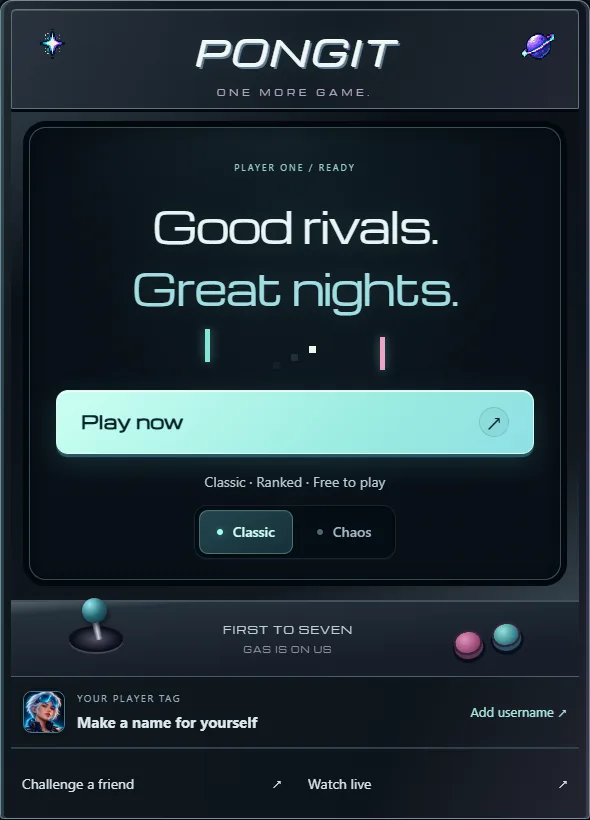
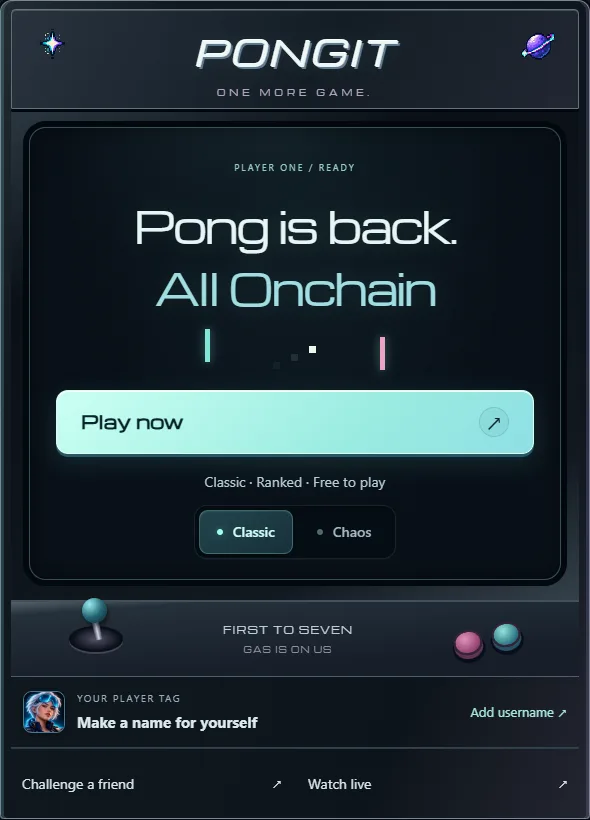
Adopt Pong is back. All Onchain across the home and share preview

Changed region(s): [[0.2136, 0.2439, 0.7627, 0.3963]]

diff --git a/web/components/HomeCabinet.tsx b/web/components/HomeCabinet.tsx
@@ -7,7 +7,7 @@ export function HomeCabinet({mode,setMode,busy,active,play,challenge,watch,profi
    <div className="cabinet-marquee"><PixelOrnament kind="star" className="marquee-left"/><span>PONGIT</span><PixelOrnament kind="planet" className="marquee-right"/><small>ONE MORE GAME.</small></div>
    <div className="cabinet-bezel"><div className="cabinet-screen">
      <span className="cabinet-edition">PLAYER ONE / READY</span>
-     <h1>Good rivals.<br/><em>Great nights.</em></h1>
+     <h1>Pong is back.<br/><em>All Onchain</em></h1>
      <div className="cabinet-pong" aria-hidden="true"><i/><b/><i/></div>
      <button className="primary play-now" disabled={busy} onClick={play}>{busy?"Please wait…":active?"Resume match":"Play now"}<span aria-hidden="true">↗</span></button>
      <p className="play-caption">{mode===1?"Chaos":"Classic"} · Ranked · Free to play</p>

diff --git a/web/lib/social-metadata.ts b/web/lib/social-metadata.ts
@@ -2,11 +2,11 @@ import type { Metadata } from "next";
 
 export const siteOrigin = "https://pongit.xyz";
 const image = {
-  url: `${siteOrigin}/social/pongit-neon-cabinet-v1.jpg`,
+  url: `${siteOrigin}/social/pongit-neon-cabinet-v2.jpg`,
   width: 1200,
   height: 630,
   type: "image/jpeg",
-  alt: "PONGIT neon arcade cabinet with the orbital logo, a Pong match and 16-bit ornaments. Good rivals. Great nights.",
+  alt: "PONGIT neon arcade cabinet with the orbital logo, a Pong match and 16-bit ornaments. Pong is back. All Onchain",
 };
 
 export function socialMetadata(

diff --git a/web/app/layout.tsx b/web/app/layout.tsx
@@ -14,7 +14,7 @@ export const metadata: Metadata = {
   description:
     "A fully onchain Pong arena on Monad testnet. Play, watch, and replay verifiable matches.",
   ...socialMetadata(
-    "PONGIT | Good rivals. Great nights.",
+    "PONGIT | Pong is back. All Onchain",
     "Your next rival is one click away. Play Classic or Chaos, challenge friends and watch live in the onchain arcade on Monad Testnet.",
     "/",
   ),

diff --git a/artwork/social/README.md b/artwork/social/README.md
@@ -4,16 +4,23 @@ The share card follows the Neon Cabinet identity: the existing orbital logo,
 chrome lettering, anthracite arcade cabinet, cyan/violet lighting and 16-bit
 ornaments. It uses the same slogan as the home cabinet.
 
-- Source: `pongit-neon-cabinet-v1.png`, generated with the built-in imagegen tool.
+- Current source: `pongit-neon-cabinet-v2.png`, edited with the built-in imagegen tool.
 - References: `web/public/brand/avatar.webp` and `web/public/docs-assets/home.webp`.
-- Web asset: `web/public/social/pongit-neon-cabinet-v1.jpg`, 1200 × 630 pixels.
+- Web asset: `web/public/social/pongit-neon-cabinet-v2.jpg`, 1200 × 630 pixels.
 - Optimization: Sharp, cover resize to 1200 × 630, JPEG quality 90 with mozjpeg.
 - Metadata: `web/lib/social-metadata.ts`; public articles keep their own title and description.
 
 Use a new versioned filename when replacing the image so caches can distinguish it.
 The source is kept for future artwork revisions; only the compressed JPEG is served.
 
-## Generation prompt
+The current slogan is **Pong is back. All Onchain**. Version 1 is retained for
+older cached links and artwork history.
+
+## Current edit prompt
+
+Edit the supplied PONGIT social sharing card. Change ONLY the two-line slogan beneath the large PONGIT wordmark. Replace 'Good rivals.' with exactly 'Pong is back.' in the same white chrome-tinted futuristic font. Replace 'Great nights.' with exactly 'All Onchain' (capital A and O, no terminal period) in the same cyan font. Preserve all other content and composition: the exact orbital glass logo, both PONGIT wordmarks, the arcade cabinet and black Pong screen, cyan/violet paddles, ball, joystick and buttons, pixel star and planet ornaments, border, background, ONCHAIN ARCADE label, pongit.xyz URL, lighting, colors, framing, resolution and wide 1.905:1 aspect ratio. New text must be beautifully typeset, legible and centered within the existing left-hand slogan area. Do not redesign or add anything else.
+
+## Original generation prompt (version 1)
 
 Use case: ads-marketing. Create the finished premium social sharing preview / Open Graph image for PONGIT, a browser arcade Pong game. Wide landscape 1.905:1 aspect ratio, ideally 1200x630 or proportional higher resolution. This is a finished share card, not a website screenshot.
 References: image 1 is the existing PONGIT brand mark, two translucent cyan and violet opposing curved glass orbits around a bright pearl. Preserve this recognizable mark faithfully. Image 2 is the actual current UI: anthracite metal cabinet, dark glass, controlled cyan and violet neon, chrome italic futuristic Michroma-style PONGIT lettering, small crisp 16-bit pixel ornaments. Preserve that art direction.
